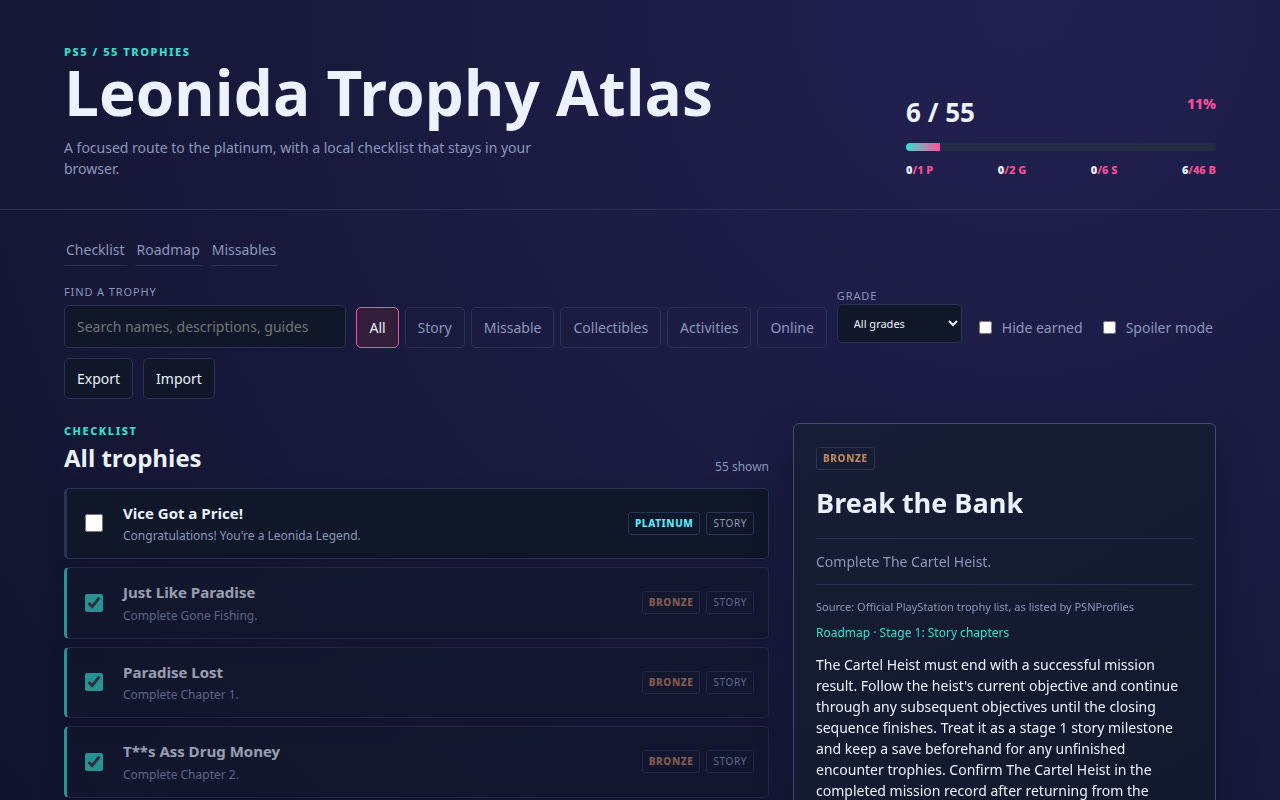
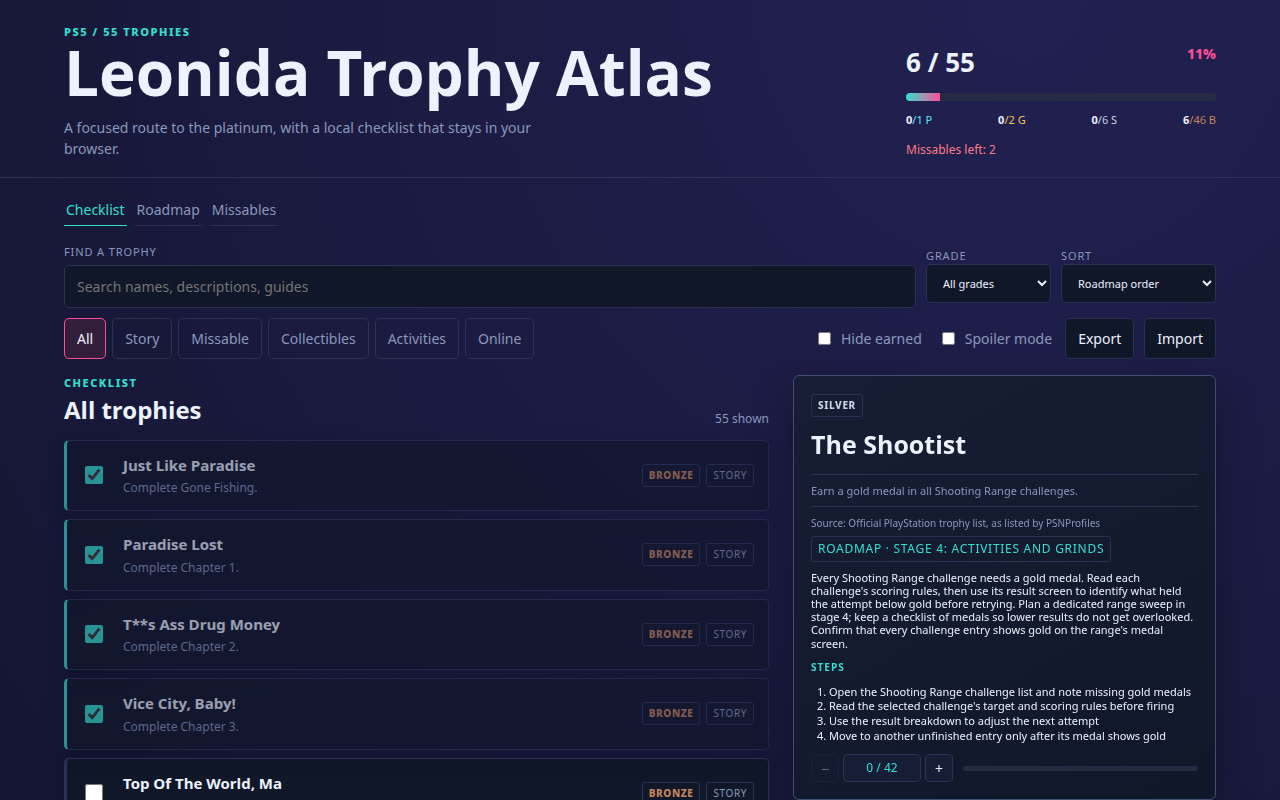
Upgrade trophy tracker progress and roadmap

diff --git a/app/app.js b/app/app.js
@@ -1,15 +1,290 @@
-const state={data:null,earned:new Set(JSON.parse(localStorage.getItem('leonida-earned')||'[]')),kind:'all',grade:'all',query:'',open:null,spoiler:false};
-const $=id=>document.getElementById(id); const kinds=['all','story','missable','collectibles','activities','online'];
-function save(){localStorage.setItem('leonida-earned',JSON.stringify([...state.earned].sort((a,b)=>a-b)));renderProgress();renderList()}
-function title(t){return state.spoiler&&!state.earned.has(t.id)&&t.hidden?'Hidden trophy':t.name}
-function visible(t){const q=(t.name+' '+t.description+' '+t.guide).toLowerCase().includes(state.query.toLowerCase());return q&&(state.kind==='all'||state.kind===t.kind||(state.kind==='missable'&&t.missable))&&(state.grade==='all'||state.grade===t.grade)&&(!document.getElementById('hideEarned').checked||!state.earned.has(t.id))}
-function renderProgress(){const n=state.earned.size;const grades=['platinum','gold','silver','bronze'];$('earnedCount').textContent=`${n} / 55`;$('percent').textContent=`${Math.round(n/55*100)}%`;$('progressBar').style.width=`${n/55*100}%`;$('gradeCounts').innerHTML=grades.map(g=>{const total=state.data.trophies.filter(t=>t.grade===g).length;const done=state.data.trophies.filter(t=>t.grade===g&&state.earned.has(t.id)).length;return `<span class="${g}"><b>${done}</b>/${total} ${g[0].toUpperCase()}</span>`}).join('')}
-function renderKinds(){ $('kindFilters').innerHTML=kinds.map(k=>`<button class="chip ${state.kind===k?'active':''}" data-kind="${k}">${k[0].toUpperCase()+k.slice(1)}</button>`).join('');document.querySelectorAll('[data-kind]').forEach(b=>b.onclick=()=>{state.kind=b.dataset.kind;renderKinds();renderList()})}
-function renderList(){const rows=state.data.trophies.filter(visible);$('resultCount').textContent=`${rows.length} shown`;$('list').innerHTML=rows.map(t=>`<article class="trophy ${state.earned.has(t.id)?'earned':''} ${state.open===t.id?'open':''}" data-open="${t.id}"><input type="checkbox" data-check="${t.id}" ${state.earned.has(t.id)?'checked':''} aria-label="Mark ${title(t)} earned"><div><h3>${title(t)}</h3><p>${state.spoiler&&!state.earned.has(t.id)&&t.hidden?'Description hidden in spoiler mode':t.description}</p></div><div class="meta"><span class="badge ${t.grade}">${t.grade}</span><span class="tag">${t.kind}</span>${t.missable?'<span class="warn">Missable</span>':''}</div></article>`).join('')||'<p class="sub">No trophies match these filters.</p>';document.querySelectorAll('[data-open]').forEach(x=>x.onclick=e=>{if(e.target.matches('input'))return;state.open=Number(x.dataset.open);renderList();renderDetail()});document.querySelectorAll('[data-check]').forEach(x=>x.onchange=()=>{const id=Number(x.dataset.check);x.checked?state.earned.add(id):state.earned.delete(id);save();renderDetail()})}
-function renderDetail(){const t=state.data.trophies.find(x=>x.id===state.open)||state.data.trophies[0];if(!t){return}const masked=state.spoiler&&!state.earned.has(t.id)&&t.hidden;$('detail').innerHTML=`<span class="badge ${t.grade}">${t.grade}</span><h2>${masked?'Hidden trophy':t.name}</h2><p class="official">${masked?'Description hidden in spoiler mode':t.description}</p><p class="source">Source: ${t.source}</p><p class="detail-stage">Roadmap · Stage ${t.stage}: ${stageName(t.stage)}</p>${t.missable?'<p class="detail-warning"><strong>Missable:</strong> Keep a separate save before this encounter and resolve its conditions before moving on.</p>':''}<p>${masked?'Earn this trophy to reveal its guide.':t.guide}</p>${!masked?`<h3>Steps</h3><ol>${t.steps.split(';').map(s=>`<li>${s}</li>`).join('')}</ol>`:''}`}
-function stageName(n){return ['','Story chapters','Missables and choices','Collectibles and exploration','Activities and grinds','Cleanup and platinum'][n]}
-function renderRoadmap(){const box=$('roadmap');const view=new URLSearchParams(location.hash.slice(1)).get('view');if(view==='missables'){state.kind='missable';renderKinds();$('listTitle').textContent='Missable trophies';box.classList.remove('visible');renderList();return}if(view!=='roadmap'){box.classList.remove('visible');$('listTitle').textContent='All trophies';return}box.classList.add('visible');box.innerHTML='<div class="view-head"><div><p class="kicker">ROADMAP</p><h2>Five stages to Leonida Legend</h2></div></div><div class="stages">'+[1,2,3,4,5].map(n=>`<div class="stage"><h3>0${n} · ${stageName(n)}</h3><p>${state.data.trophies.filter(t=>t.stage===n).length} trophies</p>${state.data.trophies.filter(t=>t.stage===n).map(t=>`<button data-stage-open="${t.id}">${state.earned.has(t.id)?'✓ ':''}${title(t)}</button>`).join('')}</div>`).join('')+'</div>';document.querySelectorAll('[data-stage-open]').forEach(b=>b.onclick=()=>{state.open=Number(b.dataset.stageOpen);location.hash='';renderRoadmap();renderList();renderDetail()})}
-function exportProgress(){const blob=new Blob([JSON.stringify({game:'Grand Theft Auto VI',earned:[...state.earned].sort((a,b)=>a-b)},null,2)],{type:'application/json'});const a=document.createElement('a');a.href=URL.createObjectURL(blob);a.download='leonida-trophy-progress.json';a.click();URL.revokeObjectURL(a.href)}
-function importProgress(file){const reader=new FileReader();reader.onload=()=>{try{const ids=JSON.parse(reader.result).earned;state.earned=new Set(ids.map(Number));save();renderDetail()}catch{alert('That progress file could not be read.')}};reader.readAsText(file)}
-async function start(){state.data=await fetch('data/trophies.json').then(r=>r.json());const params=new URLSearchParams(location.search);if(params.has('earned'))params.get('earned').split(',').filter(Boolean).forEach(x=>state.earned.add(Number(x)));if(params.has('open'))state.open=Number(params.get('open'));$('search').oninput=e=>{state.query=e.target.value.toLowerCase();renderList()};$('grade').onchange=e=>{state.grade=e.target.value;renderList()};$('hideEarned').onchange=renderList;$('spoiler').onchange=e=>{state.spoiler=e.target.checked;renderList();renderDetail()};$('export').onclick=exportProgress;$('import').onclick=()=>$('file').click();$('file').onchange=e=>importProgress(e.target.files[0]);window.onhashchange=renderRoadmap;renderKinds();renderProgress();renderList();renderDetail();renderRoadmap()}
-start().catch(e=>{$('list').innerHTML='<p class="sub">Could not load the local trophy file.</p>';console.error(e)});
+const state = {data: null, earned: new Set(), progress: {}, kind: 'all', grade: 'all', sort: 'roadmap', query: '', view: 'checklist', open: null, spoiler: false};
+const $ = id => document.getElementById(id);
+const kinds = ['all', 'story', 'missable', 'collectibles', 'activities', 'online'];
+const grades = ['platinum', 'gold', 'silver', 'bronze'];
+const earnedKey = 'leonida-earned';
+const progressKey = 'leonida-progress';
+
+function loadStored(key, fallback) {
+  try {
+    return JSON.parse(localStorage.getItem(key)) ?? fallback;
+  } catch {
+    return fallback;
+  }
+}
+
+function setProgress(trophy, value) {
+  const count = Math.min(trophy.count, Math.max(0, Math.trunc(value)));
+  if (count) state.progress[trophy.id] = count;
+  else delete state.progress[trophy.id];
+  if (count === trophy.count) state.earned.add(trophy.id);
+  else state.earned.delete(trophy.id);
+}
+
+function setEarned(trophy, earned) {
+  if (trophy.count) setProgress(trophy, earned ? trophy.count : 0);
+  else if (earned) state.earned.add(trophy.id);
+  else state.earned.delete(trophy.id);
+}
+
+function loadProgress(ids, progress) {
+  const earned = new Set(ids.map(Number));
+  state.earned.clear();
+  state.progress = {};
+  for (const trophy of state.data.trophies) {
+    if (earned.has(trophy.id)) setEarned(trophy, true);
+    else if (trophy.count && Number.isFinite(progress?.[trophy.id])) setProgress(trophy, progress[trophy.id]);
+  }
+}
+
+function earnedIds() {
+  return [...state.earned].sort((left, right) => left - right);
+}
+
+function save() {
+  localStorage.setItem(earnedKey, JSON.stringify(earnedIds()));
+  localStorage.setItem(progressKey, JSON.stringify(state.progress));
+  renderProgress();
+  renderResults();
+  renderDetail();
+}
+
+function isMasked(trophy) {
+  return state.spoiler && !state.earned.has(trophy.id) && trophy.hidden;
+}
+
+function title(trophy) {
+  return isMasked(trophy) ? 'Hidden trophy' : trophy.name;
+}
+
+function visible(trophy) {
+  return (state.view !== 'missables' || trophy.missable)
+    && (state.kind === 'all' || state.kind === trophy.kind || (state.kind === 'missable' && trophy.missable))
+    && (state.grade === 'all' || state.grade === trophy.grade)
+    && (!$('hideEarned').checked || !state.earned.has(trophy.id))
+    && `${trophy.name} ${trophy.description} ${trophy.guide}`.toLowerCase().includes(state.query);
+}
+
+function compareTrophies(left, right) {
+  const roadmap = left.stage - right.stage || left.id - right.id;
+  if (state.sort === 'grade') return grades.indexOf(left.grade) - grades.indexOf(right.grade) || roadmap;
+  if (state.sort === 'name') return title(left).localeCompare(title(right)) || roadmap;
+  if (state.sort === 'unearned') return Number(state.earned.has(left.id)) - Number(state.earned.has(right.id)) || roadmap;
+  return roadmap;
+}
+
+function completion(trophies) {
+  const total = trophies.length;
+  const earned = trophies.filter(trophy => state.earned.has(trophy.id)).length;
+  return {earned, total, percent: total ? Math.round(earned / total * 100) : 0};
+}
+
+function completionText({earned, total, percent}) {
+  return `${earned} / ${total} · ${percent}%`;
+}
+
+function renderProgress() {
+  const trophies = state.data.trophies;
+  const stats = completion(trophies);
+  $('earnedCount').textContent = `${stats.earned} / ${stats.total}`;
+  $('percent').textContent = `${stats.percent}%`;
+  $('progressBar').style.width = `${stats.earned / stats.total * 100}%`;
+  $('gradeCounts').innerHTML = grades.map(grade => {
+    const {earned, total} = completion(trophies.filter(trophy => trophy.grade === grade));
+    return `<span class="${grade}"><b>${earned}</b>/${total} ${grade[0].toUpperCase()}</span>`;
+  }).join('');
+  const missables = completion(trophies.filter(trophy => trophy.missable));
+  $('missablesLeft').textContent = `Missables left: ${missables.total - missables.earned}`;
+}
+
+function renderKinds() {
+  $('kindFilters').innerHTML = kinds.map(kind => `<button class="chip ${state.kind === kind ? 'active' : ''}" data-kind="${kind}" aria-pressed="${state.kind === kind}">${kind[0].toUpperCase() + kind.slice(1)}</button>`).join('');
+}
+
+function miniBar(value, max, label) {
+  return `<progress class="mini-bar" value="${value}" max="${max}" aria-label="${label}"></progress>`;
+}
+
+function countControl(trophy) {
+  if (!trophy.count) return '';
+  const count = state.progress[trophy.id] ?? 0;
+  return `<div class="counter" data-counter="${trophy.id}" role="group" aria-label="Trophy progress for ${title(trophy)}">
+    <div class="counter-controls">
+      <button type="button" data-count-action="minus" aria-label="Decrease progress" ${count === 0 ? 'disabled' : ''}>−</button>
+      <button type="button" data-count-action="set" aria-label="Set progress, ${count} / ${trophy.count}" title="Set progress">${count} / ${trophy.count}</button>
+      <button type="button" data-count-action="plus" aria-label="Increase progress" ${count === trophy.count ? 'disabled' : ''}>+</button>
+    </div>
+    ${miniBar(count, trophy.count, 'Trophy progress')}
+  </div>`;
+}
+
+function adjustProgress(event) {
+  const button = event.target.closest('[data-count-action]');
+  if (!button) return false;
+  const counter = button.closest('[data-counter]');
+  const trophy = state.data.trophies.find(item => item.id === Number(counter.dataset.counter));
+  const action = button.dataset.countAction;
+  const count = state.progress[trophy.id] ?? 0;
+  let next = count + (action === 'plus' ? 1 : -1);
+  if (action === 'set') {
+    const entry = prompt(`Set progress for ${title(trophy)} (0–${trophy.count})`, count);
+    if (!entry?.trim() || !Number.isFinite(Number(entry))) return true;
+    next = Number(entry);
+  }
+  const panel = counter.closest('#detail, #list');
+  setProgress(trophy, next);
+  save();
+  const updated = panel.querySelector(`[data-counter="${trophy.id}"]`);
+  const focus = updated?.querySelector(`[data-count-action="${action}"]:enabled`)
+    ?? updated?.querySelector('[data-count-action="set"]');
+  (focus ?? $('hideEarned')).focus({preventScroll: true});
+  return true;
+}
+
+function renderList(rows) {
+  $('resultCount').textContent = `${rows.length} shown`;
+  $('list').innerHTML = rows.map(trophy => {
+    const earned = state.earned.has(trophy.id);
+    return `<article class="trophy ${earned ? 'earned' : ''} ${state.open === trophy.id ? 'open' : ''}" data-open="${trophy.id}">
+      <input type="checkbox" data-check="${trophy.id}" ${earned ? 'checked' : ''} aria-label="Mark ${title(trophy)} earned">
+      <div><h3><button class="trophy-name" type="button" data-trophy-name>${title(trophy)}</button></h3><p>${isMasked(trophy) ? 'Description hidden in spoiler mode' : trophy.description}</p></div>
+      <div class="meta"><span class="badge ${trophy.grade}">${trophy.grade}</span><span class="tag">${trophy.kind}</span>${trophy.missable ? '<span class="warn">Missable</span>' : ''}</div>
+      ${countControl(trophy)}
+    </article>`;
+  }).join('') || '<p class="sub">No trophies match these filters.</p>';
+}
+
+function renderDetail() {
+  const trophy = state.data.trophies.find(item => item.id === state.open) ?? state.data.trophies[0];
+  const masked = isMasked(trophy);
+  $('detail').innerHTML = `<span class="badge ${trophy.grade}">${trophy.grade}</span>
+    <h2>${title(trophy)}</h2>
+    <p class="official">${masked ? 'Description hidden in spoiler mode' : trophy.description}</p>
+    <p class="source">Source: ${trophy.source}</p>
+    <div class="detail-tags"><span class="tag detail-stage">Roadmap · Stage ${trophy.stage}: ${stageName(trophy.stage)}</span>${trophy.missable ? '<span class="warn">Missable</span>' : ''}</div>
+    ${trophy.missable ? '<p class="detail-warning">Keep a separate save before this encounter and resolve its conditions before moving on.</p>' : ''}
+    <p>${masked ? 'Earn this trophy to reveal its guide.' : trophy.guide}</p>
+    ${masked ? '' : `<h3>Steps</h3><ol>${trophy.steps.split(';').map(step => `<li>${step}</li>`).join('')}</ol>`}
+    ${countControl(trophy)}`;
+}
+
+function stageName(stage) {
+  return ['Story chapters', 'Missables and choices', 'Collectibles and exploration', 'Activities and grinds', 'Cleanup and platinum'][stage - 1];
+}
+
+function renderRoadmap(rows) {
+  const trophies = state.data.trophies;
+  const stats = completion(trophies);
+  $('roadmap').innerHTML = `<div class="view-head"><div><p class="kicker">ROADMAP</p><h2>Five stages to Leonida Legend</h2></div>
+    <div class="platinum-progress"><strong>Platinum progress</strong><span>${completionText(stats)}</span>${miniBar(stats.earned, stats.total, 'Platinum progress')}</div></div>
+    <div class="stages">${[1, 2, 3, 4, 5].map(stage => {
+      const {earned, total, percent} = completion(trophies.filter(trophy => trophy.stage === stage));
+      const name = stageName(stage);
+      const buttons = rows.filter(trophy => trophy.stage === stage).map(trophy => `<button type="button" data-stage-open="${trophy.id}">${state.earned.has(trophy.id) ? '✓ ' : ''}${title(trophy)}</button>`).join('');
+      return `<div class="stage"><h3>0${stage} · ${name}</h3><p class="stage-count">${completionText({earned, total, percent})}</p>${miniBar(earned, total, `${name} completion`)}${buttons || '<p>No matching trophies</p>'}</div>`;
+    }).join('')}</div>`;
+}
+
+function renderResults() {
+  const rows = state.data.trophies.filter(visible).sort(compareTrophies);
+  renderList(rows);
+  if (state.view === 'roadmap') renderRoadmap(rows);
+}
+
+function renderView() {
+  const view = new URLSearchParams(location.hash.slice(1)).get('view');
+  state.view = view === 'missables' || view === 'roadmap' ? view : 'checklist';
+  document.querySelectorAll('.views a').forEach(link => {
+    if (link.hash === `#view=${state.view}`) link.setAttribute('aria-current', 'page');
+    else link.removeAttribute('aria-current');
+  });
+  $('roadmap').classList.toggle('visible', state.view === 'roadmap');
+  $('listTitle').textContent = state.view === 'missables' ? 'Missable trophies' : 'All trophies';
+  renderResults();
+}
+
+function openTrophy(id) {
+  document.querySelector('[data-open].open')?.classList.remove('open');
+  state.open = Number(id);
+  $('list').querySelector(`[data-open="${state.open}"]`)?.classList.add('open');
+  renderDetail();
+}
+
+function exportProgress() {
+  const data = {game: 'Grand Theft Auto VI', earned: earnedIds(), progress: state.progress};
+  const blob = new Blob([JSON.stringify(data, null, 2)], {type: 'application/json'});
+  const link = document.createElement('a');
+  link.href = URL.createObjectURL(blob);
+  link.download = 'leonida-trophy-progress.json';
+  link.click();
+  URL.revokeObjectURL(link.href);
+}
+
+async function importProgress(file) {
+  if (!file) return;
+  try {
+    const {earned, progress} = JSON.parse(await file.text());
+    loadProgress(earned, progress);
+    save();
+  } catch {
+    alert('That progress file could not be read.');
+  }
+}
+
+async function start() {
+  state.data = await fetch('data/trophies.json').then(response => response.json());
+  const params = new URLSearchParams(location.search);
+  const shared = (params.get('earned') ?? '').split(',').filter(Boolean);
+  const stored = loadStored(earnedKey, []);
+  loadProgress([...(Array.isArray(stored) ? stored : []), ...shared], loadStored(progressKey, {}));
+  if (params.has('open')) state.open = Number(params.get('open'));
+
+  $('search').oninput = event => { state.query = event.target.value.toLowerCase(); renderResults(); };
+  $('grade').onchange = event => { state.grade = event.target.value; renderResults(); };
+  $('sort').onchange = event => { state.sort = event.target.value; renderResults(); };
+  $('hideEarned').onchange = renderResults;
+  $('spoiler').onchange = event => { state.spoiler = event.target.checked; renderResults(); renderDetail(); };
+  $('kindFilters').onclick = event => {
+    if (!event.target.matches('[data-kind]')) return;
+    state.kind = event.target.dataset.kind;
+    renderKinds();
+    $('kindFilters').querySelector('.active').focus();
+    renderResults();
+  };
+  $('list').onclick = event => {
+    if (adjustProgress(event) || event.target.closest('input, [data-counter]')) return;
+    const card = event.target.closest('[data-open]');
+    if (card) openTrophy(card.dataset.open);
+  };
+  $('list').onchange = event => {
+    if (!event.target.matches('[data-check]')) return;
+    const id = Number(event.target.dataset.check);
+    const trophy = state.data.trophies.find(item => item.id === id);
+    setEarned(trophy, event.target.checked);
+    save();
+    ($('list').querySelector(`[data-check="${id}"]`) ?? $('hideEarned')).focus({preventScroll: true});
+  };
+  $('detail').onclick = adjustProgress;
+  $('roadmap').onclick = event => {
+    const button = event.target.closest('[data-stage-open]');
+    if (!button) return;
+    openTrophy(button.dataset.stageOpen);
+    location.hash = 'view=checklist';
+  };
+  $('export').onclick = exportProgress;
+  $('import').onclick = () => $('file').click();
+  $('file').onchange = event => {
+    importProgress(event.target.files[0]);
+    event.target.value = '';
+  };
+  window.onhashchange = renderView;
+  renderKinds();
+  renderProgress();
+  renderDetail();
+  renderView();
+}
+
+start().catch(error => {
+  $('list').innerHTML = '<p class="sub">Could not load the local trophy file.</p>';
+  console.error(error);
+});

diff --git a/app/style.css b/app/style.css
@@ -1,4 +1,1 @@
-:root{--bg:#080b18;--panel:#11162a;--panel2:#171d35;--line:#2a3355;--text:#edf2ff;--muted:#8c98bd;--pink:#ff4f9a;--teal:#36e0d0;--gold:#f2c45c;--silver:#c8d4e7;--bronze:#c8865c;--danger:#ff7b87}*{box-sizing:border-box}body{margin:0;background:radial-gradient(circle at 80% 0,#222052 0,#0b0d1c 38%,var(--bg) 72%);color:var(--text);font:14px/1.5 Inter,ui-sans-serif,system-ui,-apple-system,BlinkMacSystemFont,"Segoe UI",sans-serif}
-.views{display:flex;gap:8px;margin-bottom:18px}.views a{color:var(--muted);border-bottom:1px solid var(--line);padding:5px 2px;text-decoration:none}.views a:hover{color:var(--teal);border-color:var(--teal)}
-.detail .official{margin-bottom:6px}.detail .source{font-size:11px;margin-bottom:9px}.detail .detail-stage{font-size:12px;color:var(--teal);margin-bottom:12px}.detail .detail-warning{font-size:12px;color:var(--danger);border-left:2px solid var(--danger);padding-left:9px;margin-bottom:12px}
-.top,main,footer{max-width:1440px;margin:auto}.top{padding:44px 5vw 30px;display:flex;justify-content:space-between;gap:32px;border-bottom:1px solid var(--line)}h1,h2,h3,p{margin:0}h1{font-size:clamp(30px,5vw,62px);line-height:1;letter-spacing:0}h2{font-size:24px}.kicker{color:var(--teal);font-weight:800;letter-spacing:.14em;font-size:11px}.sub{color:var(--muted);margin-top:14px;max-width:510px}.summary{width:310px;align-self:end}.summary strong{font-size:26px}.summary span{float:right;color:var(--pink);font-weight:800}.bar{height:8px;background:#252b45;border-radius:8px;overflow:hidden;margin:11px 0}.bar i{display:block;height:100%;width:0;background:linear-gradient(90deg,var(--teal),var(--pink));transition:width .3s}.grade-counts{display:flex;justify-content:space-between;color:var(--muted);font-size:11px}.grade-counts b{color:var(--text)}main{padding:24px 5vw}.toolbar{display:flex;align-items:end;gap:10px;flex-wrap:wrap;margin-bottom:24px}.search{min-width:220px;flex:1}.search label,.select-label{display:block;color:var(--muted);font-size:11px;text-transform:uppercase;letter-spacing:.08em;margin-bottom:5px}input,select,button{font:inherit}input[type=search],select{width:100%;background:var(--panel);color:var(--text);border:1px solid var(--line);border-radius:5px;padding:10px 12px}.chips{display:flex;gap:6px;flex-wrap:wrap}.chip,.action{border:1px solid var(--line);background:transparent;color:var(--muted);padding:9px 12px;border-radius:5px;cursor:pointer}.chip.active,.chip:hover,.action:hover{color:var(--text);border-color:var(--pink);background:#321d3b}.select-label{width:125px}.toggle{display:flex;gap:7px;align-items:center;color:var(--muted);padding:10px 3px;white-space:nowrap}.toggle input{accent-color:var(--pink)}.action{color:var(--text);background:var(--panel)}.content{display:grid;grid-template-columns:minmax(0,1.25fr) minmax(300px,.75fr);gap:24px}.view-head{display:flex;justify-content:space-between;align-items:end;margin-bottom:12px}.view-head span{color:var(--muted);font-size:12px}.list{display:grid;gap:8px}.trophy{display:grid;grid-template-columns:30px 1fr auto;gap:12px;align-items:center;background:var(--panel);border:1px solid var(--line);border-left:3px solid var(--line);padding:13px 14px;border-radius:5px;cursor:pointer;box-shadow:0 7px 20px #0002}.trophy:hover,.trophy.open{border-color:var(--pink);transform:translateY(-1px)}.trophy.earned{opacity:.62;border-left-color:var(--teal)}.trophy input{width:18px;height:18px;accent-color:var(--teal)}.trophy h3{font-size:15px}.trophy p{color:var(--muted);font-size:12px;margin-top:3px}.meta{display:flex;gap:6px;flex-wrap:wrap;justify-content:end}.badge,.tag,.warn{font-size:10px;text-transform:uppercase;letter-spacing:.06em;border:1px solid var(--line);padding:3px 6px;border-radius:3px}.badge{font-weight:800}.platinum{color:#5ce9ff}.gold{color:var(--gold)}.silver{color:var(--silver)}.bronze{color:var(--bronze)}.tag{color:var(--muted)}.warn{color:var(--danger);border-color:#7b384b}.detail{position:sticky;top:20px;align-self:start;background:linear-gradient(150deg,var(--panel2),var(--panel));border:1px solid #424d79;padding:22px;border-radius:6px;min-height:300px;box-shadow:0 15px 40px #0005}.detail .badge{display:inline-block;margin-bottom:13px}.detail h2{font-size:27px;margin-bottom:8px}.detail .official{color:var(--muted);padding:12px 0;border-block:1px solid var(--line);margin:14px 0}.detail h3{font-size:11px;text-transform:uppercase;letter-spacing:.1em;color:var(--teal);margin:16px 0 7px}.detail ol{padding-left:20px;color:var(--text)}.detail li{margin:5px 0}.source{color:var(--muted);font-size:12px}.roadmap{display:none;margin-bottom:26px}.roadmap.visible{display:block}.stages{display:grid;grid-template-columns:repeat(5,1fr);gap:8px}.stage{background:var(--panel);border:1px solid var(--line);padding:13px;border-radius:5px}.stage h3{color:var(--pink);font-size:13px}.stage p{color:var(--muted);font-size:12px;margin-top:8px}.stage button{display:block;width:100%;text-align:left;background:none;border:0;color:var(--text);padding:5px 0;cursor:pointer;font-size:12px}.stage button:hover{color:var(--teal)}footer{padding:24px 5vw 40px;color:var(--muted);font-size:12px;border-top:1px solid var(--line)}footer a{color:var(--teal)}code{color:var(--pink)}@media(max-width:900px){.top{display:block}.summary{width:auto;margin-top:28px}.content{grid-template-columns:1fr}.detail{position:static}.stages{grid-template-columns:1fr 1fr}}@media(max-width:550px){.top,main,footer{padding-left:18px;padding-right:18px}.stages{grid-template-columns:1fr}.trophy{grid-template-columns:24px 1fr}.meta{grid-column:2;justify-content:start}.toolbar{align-items:stretch}.select-label{width:100%}}
+:root{--bg:#080b18;--panel:#11162a;--panel2:#171d35;--line:#2a3355;--text:#edf2ff;--muted:#8c98bd;--pink:#ff4f9a;--teal:#36e0d0;--gold:#f2c45c;--silver:#c8d4e7;--bronze:#c8865c;--danger:#ff7b87}*{box-sizing:border-box}body{margin:0;background:radial-gradient(circle at 80% 0,#222052 0,#0b0d1c 38%,var(--bg) 72%);color:var(--text);font:14px/1.5 Inter,ui-sans-serif,system-ui,-apple-system,BlinkMacSystemFont,"Segoe UI",sans-serif}.top,main,footer{max-width:1440px;margin:auto}.top{padding:24px 5vw 18px;display:flex;justify-content:space-between;gap:32px;border-bottom:1px solid var(--line)}h1,h2,h3,p{margin:0}h1{font-size:clamp(30px,5vw,62px);line-height:1;letter-spacing:0}h2{font-size:24px}.kicker{color:var(--teal);font-weight:800;letter-spacing:.14em;font-size:11px}.sub{color:var(--muted);margin-top:14px;max-width:510px}.summary{width:310px;align-self:end}.summary strong{font-size:26px}.summary>span{float:right;color:var(--pink);font-weight:800}.bar{height:8px;background:#252b45;border-radius:8px;overflow:hidden;margin:11px 0}.bar i{display:block;height:100%;width:0;background:linear-gradient(90deg,var(--teal),var(--pink));transition:width .3s}.grade-counts{display:flex;justify-content:space-between;color:var(--muted);font-size:11px}.grade-counts b{color:var(--text)}.missables-left{color:var(--danger);font-size:12px;margin-top:12px}main{padding:16px 5vw}.views{display:flex;gap:8px;margin-bottom:18px}.views a{color:var(--muted);border-bottom:1px solid var(--line);padding:5px 2px;text-decoration:none}.views a:hover,.views a:focus-visible,.views a[aria-current=page]{color:var(--teal);border-color:var(--teal)}.toolbar{display:grid;gap:10px;margin-bottom:16px}.toolbar-row{display:flex;align-items:end;gap:10px;flex-wrap:wrap}.search{min-width:220px;flex:1}.search label,.select-label{display:block;color:var(--muted);font-size:11px;text-transform:uppercase;letter-spacing:.08em;margin-bottom:5px}.select-label{width:125px}.sort-label{width:155px}.toolbar-options{display:flex;align-items:center;gap:10px;margin-left:auto}.chips{display:flex;gap:6px;flex-wrap:wrap}.chip,.action{border:1px solid var(--line);background:transparent;color:var(--muted);padding:9px 12px;border-radius:5px;cursor:pointer}.chip.active,.chip:hover,.chip:focus-visible,.action:hover,.action:focus-visible{color:var(--text);border-color:var(--pink);background:#321d3b}.toggle{display:flex;gap:7px;align-items:center;color:var(--muted);padding:10px 3px;white-space:nowrap}.toggle input{accent-color:var(--pink)}.action{color:var(--text);background:var(--panel)}input,select,button{font:inherit}input[type=search],select{width:100%;background:var(--panel);color:var(--text);border:1px solid var(--line);border-radius:5px;padding:10px 12px}input:focus-visible,select:focus-visible,button:focus-visible{outline:2px solid var(--teal);outline-offset:2px}.content{display:grid;grid-template-columns:minmax(0,1.25fr) minmax(300px,.75fr);gap:24px}.view-head{display:flex;justify-content:space-between;align-items:end;gap:18px;margin-bottom:12px}.view-head span{color:var(--muted);font-size:12px}.list{display:grid;gap:8px}.trophy{display:grid;grid-template-columns:30px minmax(0,1fr) minmax(180px,auto);gap:12px;align-items:center;background:var(--panel);border:1px solid var(--line);border-left:3px solid var(--line);padding:13px 14px;border-radius:5px;cursor:pointer;box-shadow:0 7px 20px #0002}.trophy:hover,.trophy.open{border-color:var(--pink);transform:translateY(-1px)}.trophy.earned{opacity:.62;border-left-color:var(--teal)}.trophy input{width:18px;height:18px;accent-color:var(--teal)}.trophy h3{font-size:15px}.trophy p{color:var(--muted);font-size:12px;margin-top:3px}.trophy-name{border:0;background:none;color:inherit;padding:0;text-align:left;cursor:pointer}.meta{display:flex;gap:6px;flex-wrap:wrap;justify-content:end}.badge,.tag,.warn{font-size:10px;text-transform:uppercase;letter-spacing:.06em;border:1px solid var(--line);padding:3px 6px;border-radius:3px}.badge{font-weight:800}.platinum{color:#5ce9ff}.gold{color:var(--gold)}.silver{color:var(--silver)}.bronze{color:var(--bronze)}.tag{color:var(--muted)}.warn{color:var(--danger);border-color:#7b384b}.counter{grid-column:2 / -1;display:flex;align-items:center;gap:10px;min-width:0}.counter-controls{display:flex;align-items:center;gap:4px;flex:0 0 auto}.counter-controls button{border:1px solid var(--line);background:var(--panel2);color:var(--text);border-radius:4px;min-width:28px;height:28px;cursor:pointer}.counter-controls button:hover:not(:disabled),.counter-controls button:focus-visible{border-color:var(--teal);color:var(--teal)}.counter-controls button:disabled{opacity:.35;cursor:default}.counter-controls button[data-count-action=set]{min-width:78px;color:var(--teal);font-size:12px}.mini-bar{display:block;width:100%;height:5px;accent-color:var(--teal);background:#252b45;border:0;border-radius:6px;overflow:hidden}.mini-bar::-webkit-progress-bar{background:#252b45;border-radius:6px}.mini-bar::-webkit-progress-value{background:linear-gradient(90deg,var(--teal),var(--pink));border-radius:6px}.detail{position:sticky;top:20px;align-self:start;background:linear-gradient(150deg,var(--panel2),var(--panel));border:1px solid #424d79;padding:17px;border-radius:6px;min-height:300px;box-shadow:0 15px 40px #0005}.detail .badge{display:inline-block;margin-bottom:9px}.detail h2{font-size:25px;margin-bottom:6px}.detail p{font-size:11px;line-height:1.2}.detail .official{color:var(--muted);padding:9px 0;border-block:1px solid var(--line);margin:10px 0}.detail .source{font-size:10px;margin-bottom:7px}.detail-tags{display:flex;gap:6px;align-items:center;flex-wrap:wrap;margin-bottom:9px}.detail .detail-stage{font-size:12px;color:var(--teal)}.detail .detail-warning{font-size:11px;color:var(--danger);border-left:2px solid var(--danger);padding-left:9px;margin-bottom:9px}.detail h3{font-size:10px;text-transform:uppercase;letter-spacing:.1em;color:var(--teal);margin:10px 0 4px}.detail ol{padding-left:18px;color:var(--text);font-size:11px;line-height:1.15}.detail li{margin:2px 0}.source{color:var(--muted);font-size:12px}.detail .counter{margin-top:12px}.roadmap{display:none;margin-bottom:26px}.roadmap.visible{display:block}.platinum-progress{min-width:220px;display:grid;grid-template-columns:auto auto;gap:3px 10px;color:var(--muted);font-size:12px}.platinum-progress strong{color:var(--text)}.platinum-progress .mini-bar{grid-column:1 / -1}.stages{display:grid;grid-template-columns:repeat(5,1fr);gap:8px}.stage{background:var(--panel);border:1px solid var(--line);padding:13px;border-radius:5px}.stage h3{color:var(--pink);font-size:13px}.stage p{color:var(--muted);font-size:12px;margin-top:8px}.stage-count{color:var(--text)!important}.stage>.mini-bar{margin:10px 0 7px}.stage button{display:block;width:100%;text-align:left;background:none;border:0;color:var(--text);padding:5px 0;cursor:pointer;font-size:12px}.stage button:hover,.stage button:focus-visible{color:var(--teal)}footer{padding:24px 5vw 40px;color:var(--muted);font-size:12px;border-top:1px solid var(--line)}code{color:var(--pink)}@media(max-width:900px){.top{display:block}.summary{width:auto;margin-top:28px}.content{grid-template-columns:1fr}.detail{position:static}.stages{grid-template-columns:1fr 1fr}}@media(max-width:550px){.top,main,footer{padding-left:18px;padding-right:18px}.stages{grid-template-columns:1fr}.trophy{grid-template-columns:24px 1fr}.meta{grid-column:2;justify-content:start}.toolbar-row,.toolbar-options{align-items:stretch}.toolbar-options{margin-left:0;flex-wrap:wrap}.select-label{width:100%}.counter{grid-column:2}}

diff --git a/app/index.html b/app/index.html
@@ -1,5 +1,7 @@
 <!doctype html>
 <html lang="en"><head><meta charset="utf-8"><meta name="viewport" content="width=device-width,initial-scale=1"><title>Leonida Trophy Atlas</title><link rel="stylesheet" href="style.css"></head>
-<body><header class="top"><div><p class="kicker">PS5 / 55 TROPHIES</p><h1>Leonida Trophy Atlas</h1><p class="sub">A focused route to the platinum, with a local checklist that stays in your browser.</p></div><div class="summary"><strong id="earnedCount">0 / 55</strong><span id="percent">0%</span><div class="bar"><i id="progressBar"></i></div><div id="gradeCounts" class="grade-counts"></div></div></header>
-<main><nav class="views" aria-label="Atlas views"><a href="#view=checklist">Checklist</a><a href="#view=roadmap">Roadmap</a><a href="#view=missables">Missables</a></nav><section class="toolbar"><div class="search"><label for="search">Find a trophy</label><input id="search" type="search" placeholder="Search names, descriptions, guides"></div><div class="chips" id="kindFilters"></div><label class="select-label">Grade<select id="grade"><option value="all">All grades</option><option>platinum</option><option>gold</option><option>silver</option><option>bronze</option></select></label><label class="toggle"><input id="hideEarned" type="checkbox"><span>Hide earned</span></label><label class="toggle"><input id="spoiler" type="checkbox"><span>Spoiler mode</span></label><button id="export" class="action">Export</button><button id="import" class="action">Import</button><input id="file" type="file" accept="application/json" hidden></section>
+<body><header class="top"><div><p class="kicker">PS5 / 55 TROPHIES</p><h1>Leonida Trophy Atlas</h1><p class="sub">A focused route to the platinum, with a local checklist that stays in your browser.</p></div><div class="summary"><strong id="earnedCount">0 / 55</strong><span id="percent">0%</span><div class="bar"><i id="progressBar"></i></div><div id="gradeCounts" class="grade-counts"></div><p id="missablesLeft" class="missables-left" aria-live="polite"></p></div></header>
+<main><nav class="views" aria-label="Atlas views"><a href="#view=checklist">Checklist</a><a href="#view=roadmap">Roadmap</a><a href="#view=missables">Missables</a></nav><section class="toolbar">
+<div class="toolbar-row"><div class="search"><label for="search">Find a trophy</label><input id="search" type="search" placeholder="Search names, descriptions, guides"></div><label class="select-label">Grade<select id="grade"><option value="all">All grades</option><option>platinum</option><option>gold</option><option>silver</option><option>bronze</option></select></label><label class="select-label sort-label">Sort<select id="sort"><option value="roadmap">Roadmap order</option><option value="grade">Grade</option><option value="name">Name A–Z</option><option value="unearned">Unearned first</option></select></label></div>
+<div class="toolbar-row"><div class="chips" id="kindFilters"></div><div class="toolbar-options"><label class="toggle"><input id="hideEarned" type="checkbox"><span>Hide earned</span></label><label class="toggle"><input id="spoiler" type="checkbox"><span>Spoiler mode</span></label><button id="export" class="action">Export</button><button id="import" class="action">Import</button><input id="file" type="file" accept="application/json" hidden></div></div></section>
 <section id="roadmap" class="roadmap"></section><div class="content"><section><div class="view-head"><div><p class="kicker">CHECKLIST</p><h2 id="listTitle">All trophies</h2></div><span id="resultCount"></span></div><div id="list" class="list"></div></section><aside id="detail" class="detail"></aside></div></main><footer>Shareable tracker links preserve earned IDs and an open trophy. <code>?earned=2,5&open=5</code></footer><script src="app.js"></script></body></html>

diff --git a/README.md b/README.md
@@ -12,6 +12,8 @@ Use a shareable tracker URL with `?earned=2,5,9&open=9` to pre-mark trophy IDs a
 
 The earned ID list is applied on top of locally saved progress; toggles and filters remain local to the current browser session.
 
+The tracker includes progress counters for counted trophies, sorting, and per-stage roadmap completion.
+
 The `main.ts` hand-in program copies the app and screenshots to `MAKEFUN_OUTPUT_DIR` (or `/output`) and writes the competition dossier.
 
 ---
